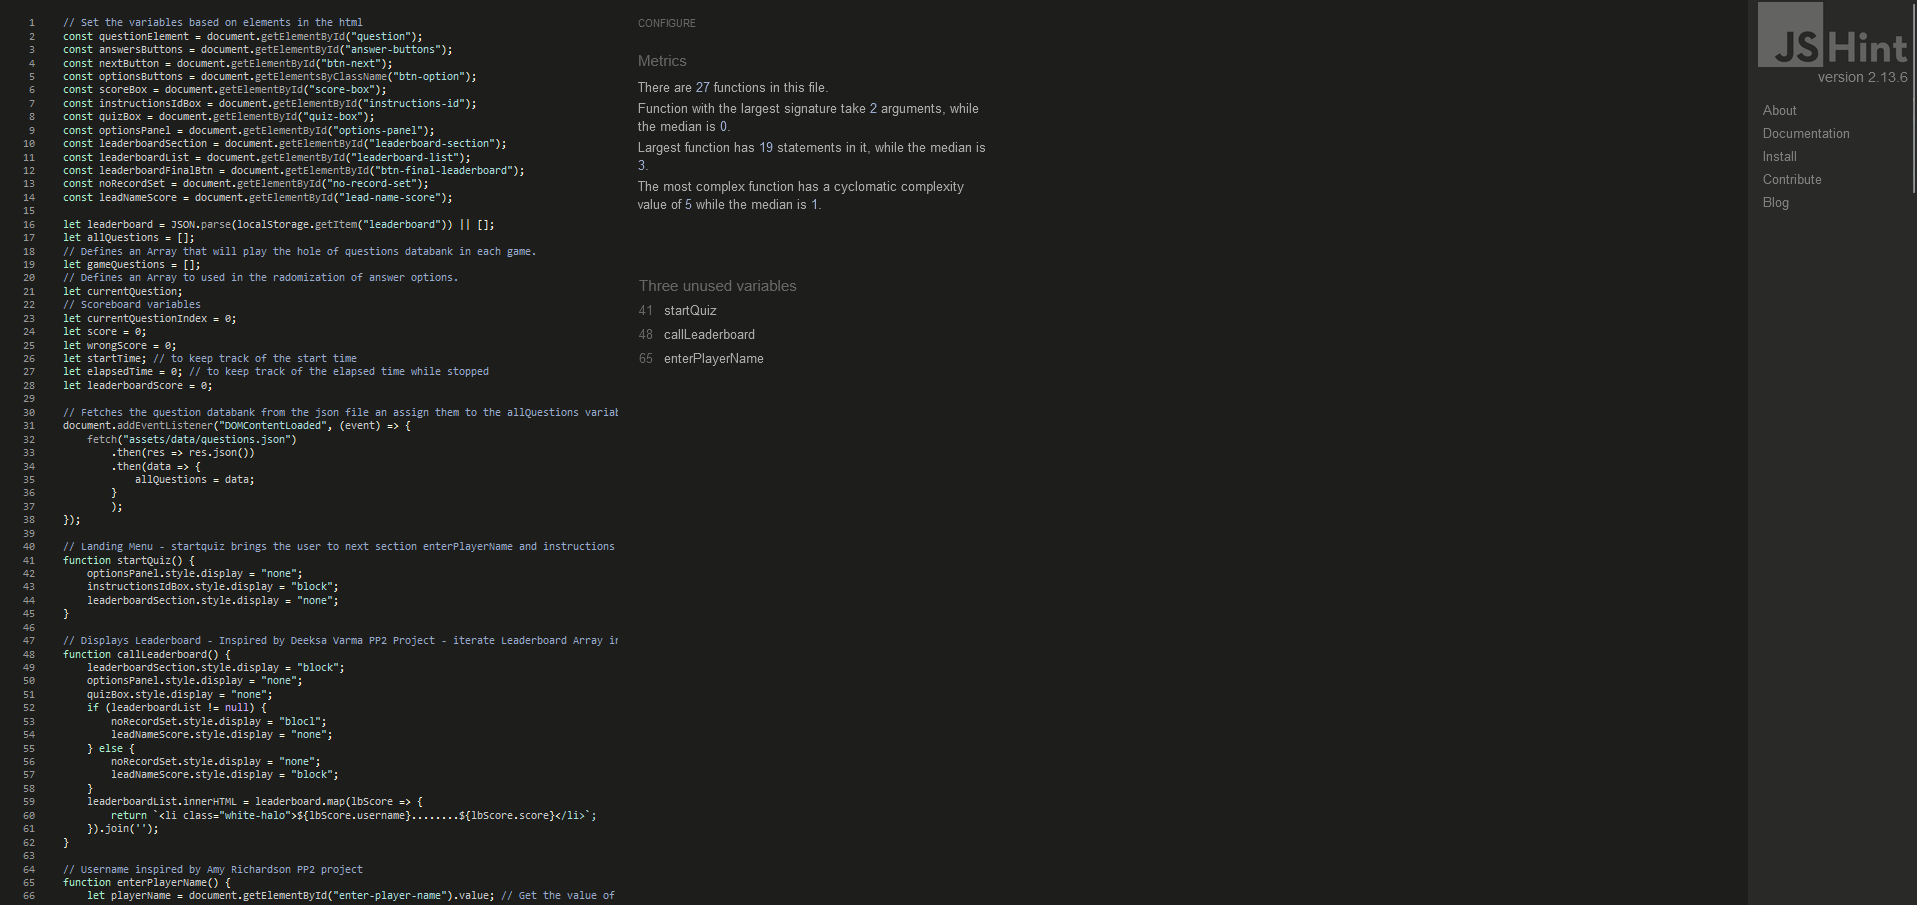
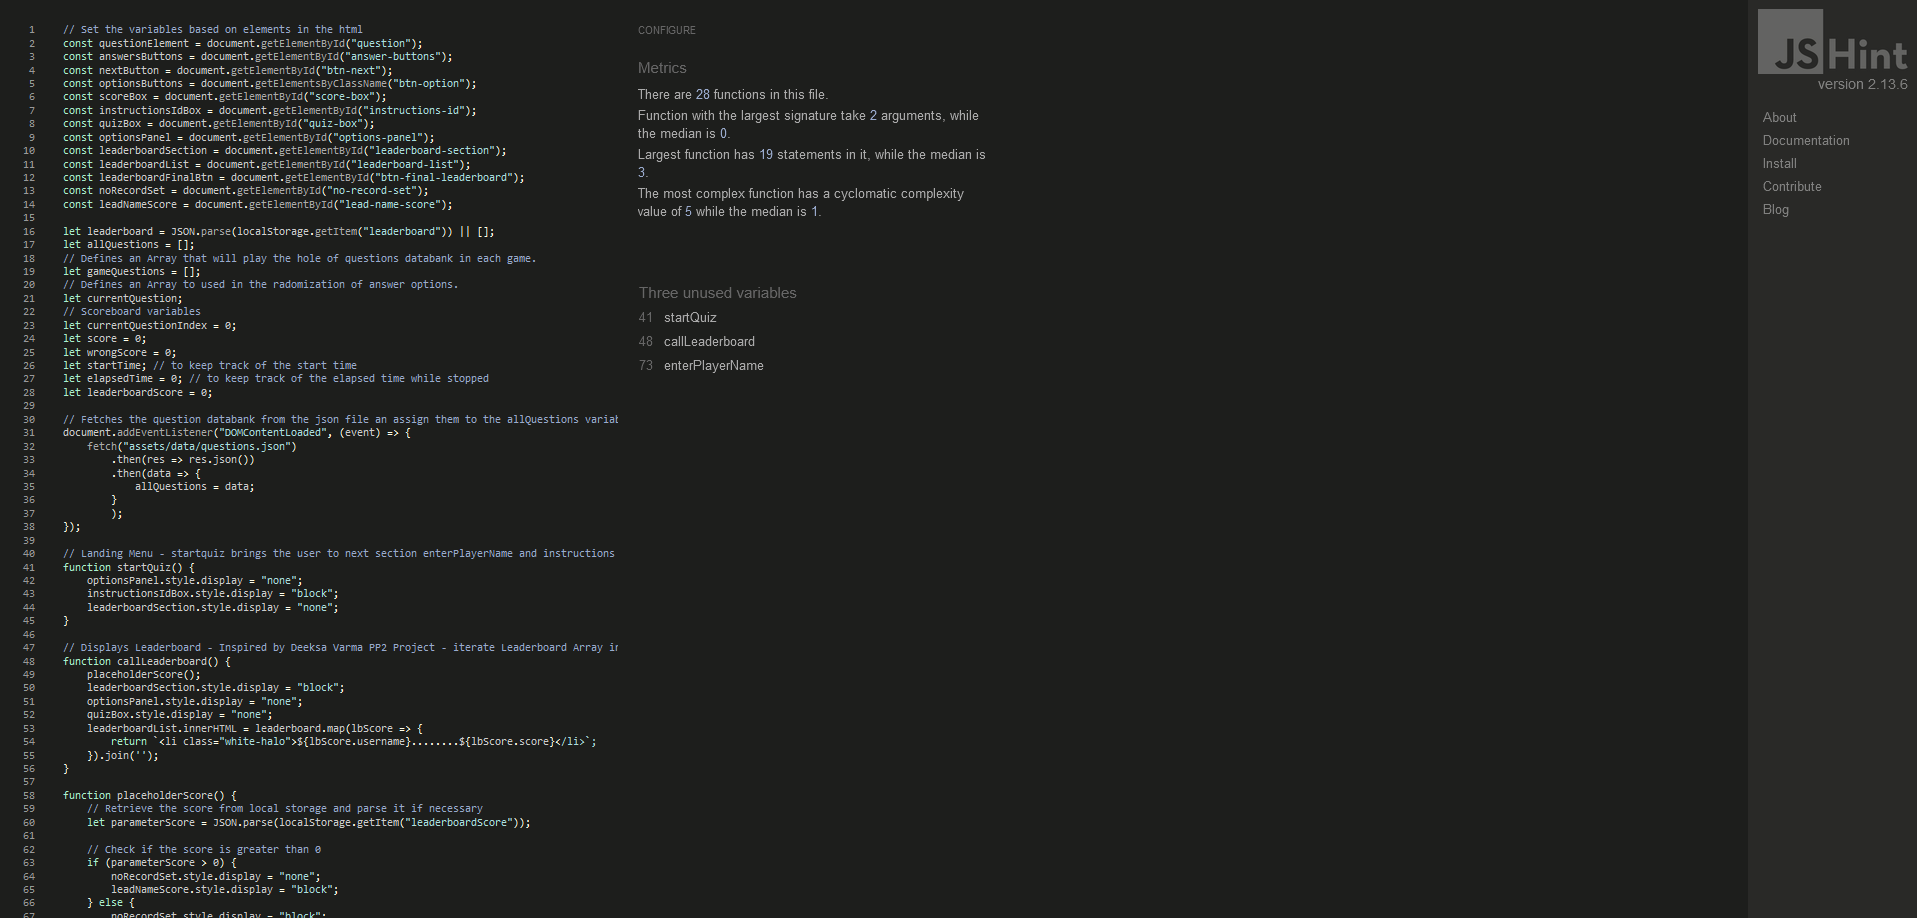
docs: add item 3.1-Main Menu/Instructions and images links to readme file

diff --git a/assets/js/script.js b/assets/js/script.js
@@ -56,10 +56,10 @@ function callLeaderboard() {
 }
 
 function placeholderScore() {
-    // Retrieve the score from local storage and parse it if necessary
+    // Gets score from local storage by parse
     let parameterScore = JSON.parse(localStorage.getItem("leaderboardScore"));
 
-    // Check if the score is greater than 0
+    // Checks if the local storage parameter .score is greater than 0
     if (parameterScore > 0) {
         noRecordSet.style.display = "none";
         leadNameScore.style.display = "block";

diff --git a/README.md b/README.md
@@ -170,44 +170,41 @@ The employed typography was Poppins provided by [Google Fonts](https://fonts.goo
 
 ### **3.1. Existing Features**
 
-#### **Index/Home Page**
+#### **Main Menu**
 
-##### **Navigation Bar**
+A Welcome or Landing page, The Main Menu greets the user by briefly introducing the web application: "A Geography Quiz for all ages and backgrounds." Sequentially, a call to action invites users to challenge themselves by starting the quiz. The page also has two buttons, one to access the quiz and the other to display the leaderboard.
 
-![Nav Bar](docs/documentation/nav-bar-desktop-tablet.png)
+As far as the code is concerned, at this stage, when the DOM is fully loaded, the question database in j.son format is assigned to the (const) allQuestions variable via the event listener and the fetch API.
 
-- The navigation bar features links that allow users to scroll smoothly to any main page sections.
+<details open>
+<summary>Main Menu</summary>
 
-- The mobile version substitutes the links for a toggle menu indicated by stacked bars. The link area is available through a dropdown menu. 
-I accomplished this design based on the Love Running Project.
+![Landing page - mobile](docs/documentation/main-menu-mobile.png)
 
-![Nav Bar](docs/documentation/nav-bar-mobile.png)
+![Landing page - desktop](docs/documentation/main-menu-desktop.png)
 
-![Toggle Menu](docs/documentation/drop-down-menu-mobile.png)
+</details>
 
-- A hover effect [transform scale](https://www.w3schools.com/cssref/css3_pr_transform.php) was added on the link anchors for the desktop version. This feature was suggested by a friend, Bruno Dias. I was using a transform font-size effect in early iterations.
+##### **Instructions/Username**
 
-![Hover transform](docs/documentation/hover-transform.png)
+This page defines the guidelines and provides general instructions on how the quiz works. The user must enter a valid username in a text input area with a maximum length of 15 characters. The user entry is saved in local storage and will later be used in the leaderboard. The function to get the username was inspired by Amy Richardson's PP2 project. The username is also reproduced on the following page via inner.html
 
-- The navigation bar's background has a degradé effect that changes from a three-colour gradient on the desktop/tablet version to a two-colour gradient on the mobile version. This choice was simply made by aesthetics. I drew inspiration from a degradé background from [ESRI Ireland's website](https://www.esri-ireland.ie/en-ie/homehttps://www.esri-ireland.ie/en-ie/home). The background css querry was obtainded through [CSS Gradient's website](https://cssgradient.io/).
+Once the user's name is entered, a function is called to randomly pull ten questions from the allQuestions variable, which is the database. The setGameQuestions function generates playable questions by selecting "n" questions from a question database stored in the variable "allQuestions". It utilizes a loop to iterate over the questions and pushes them into an array named "gameQuestions". The design of this function was influenced by the approach discussed in the following Stack Overflow post: [Push 3 random names into a new array](https://stackoverflow.com/questions/52763765/push-3-random-names-into-a-new-array).
 
-[Back to top](https://github.com/hpesciotti/GeoQuiz?tab=readme-ov-file#geoquiz--a-geography-quiz-for-all-ages-and-backgrounds)
+Also, in the code sphere,  setQuestionsOptions sets the answer options for each question in the gameQuestions array by shuffling them. It employs the Durstenfeld shuffle algorithm, which efficiently randomizes the order of elements in an array. The implementation of this function draws inspiration from a thread on Stack Overflow regarding [How to randomize (shuffle) a JavaScript array.](https://stackoverflow.com/questions/2450954/how-to-randomize-shuffle-a-javascript-array)
 
-##### **Hero Section**
+<details open>
+<summary>Instructions/Username</summary>
 
-![Hero Section](docs/documentation/hero-image.png)
+![Landing page - mobile](docs/documentation/instructions-mobile.png)
 
-- The Hero Section of my website occupies the full width of the screen and is located at the top of the index page. I intended to capture the visitor's attention with a captivating picture that would also match the website's colour scheme. 
+![Landing page - desktop](docs/documentation/instructions-desktop.png)
 
-- The Hero Section is responsive and maintains the shirtless man dancing at the centre of the page in all size versions of the website. 
+</details>
 
-![Hero Section Mobile and Tablet](docs/documentation/hero-image-mobile-tablet.png)
+##### **Quiz Questions**
 
-- This feature wasn't planned when the wireframes were created, but the spacing and lack of an eye-catching element drove me to add the current Hero Section. I took inspiration for this feature from the Love Running Project.
-
-- There's also a "call to action" box that quickly informs the user of the website's main goal. This element was a source of a couple of errors due to its responsivity. The box was bleeding the Hero Section on smaller screens, which prompted me to change the hero image to a relative measure. In this case, I've used "em" unit for the length of the hero image.
-
-[Back to top](https://github.com/hpesciotti/GeoQuiz?tab=readme-ov-file#geoquiz--a-geography-quiz-for-all-ages-and-backgrounds)
+##### **Leaderboard**
 
 #### **Error 404 Page**
 
